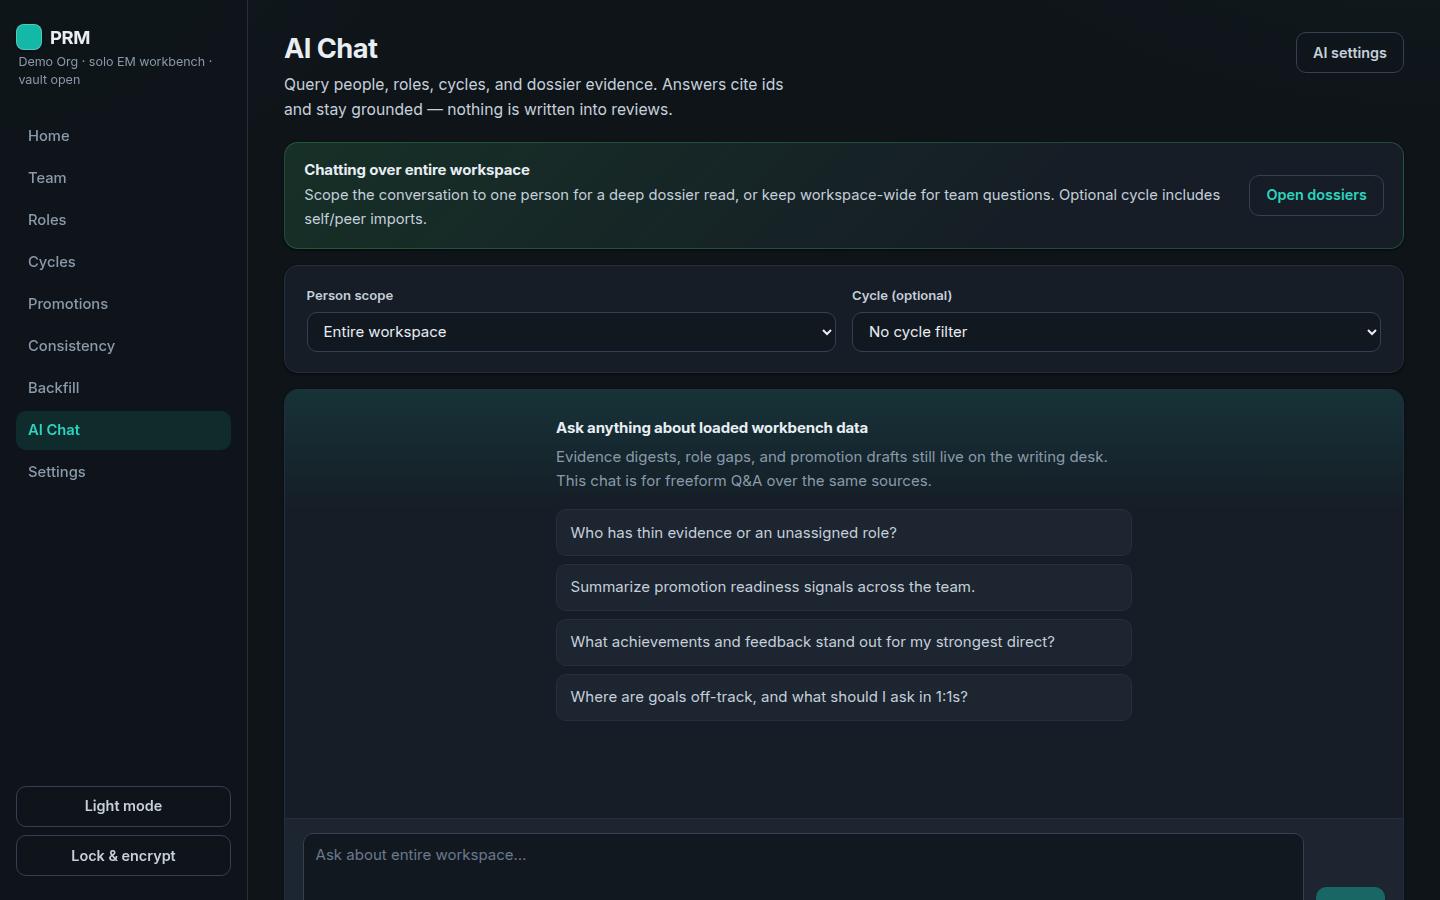
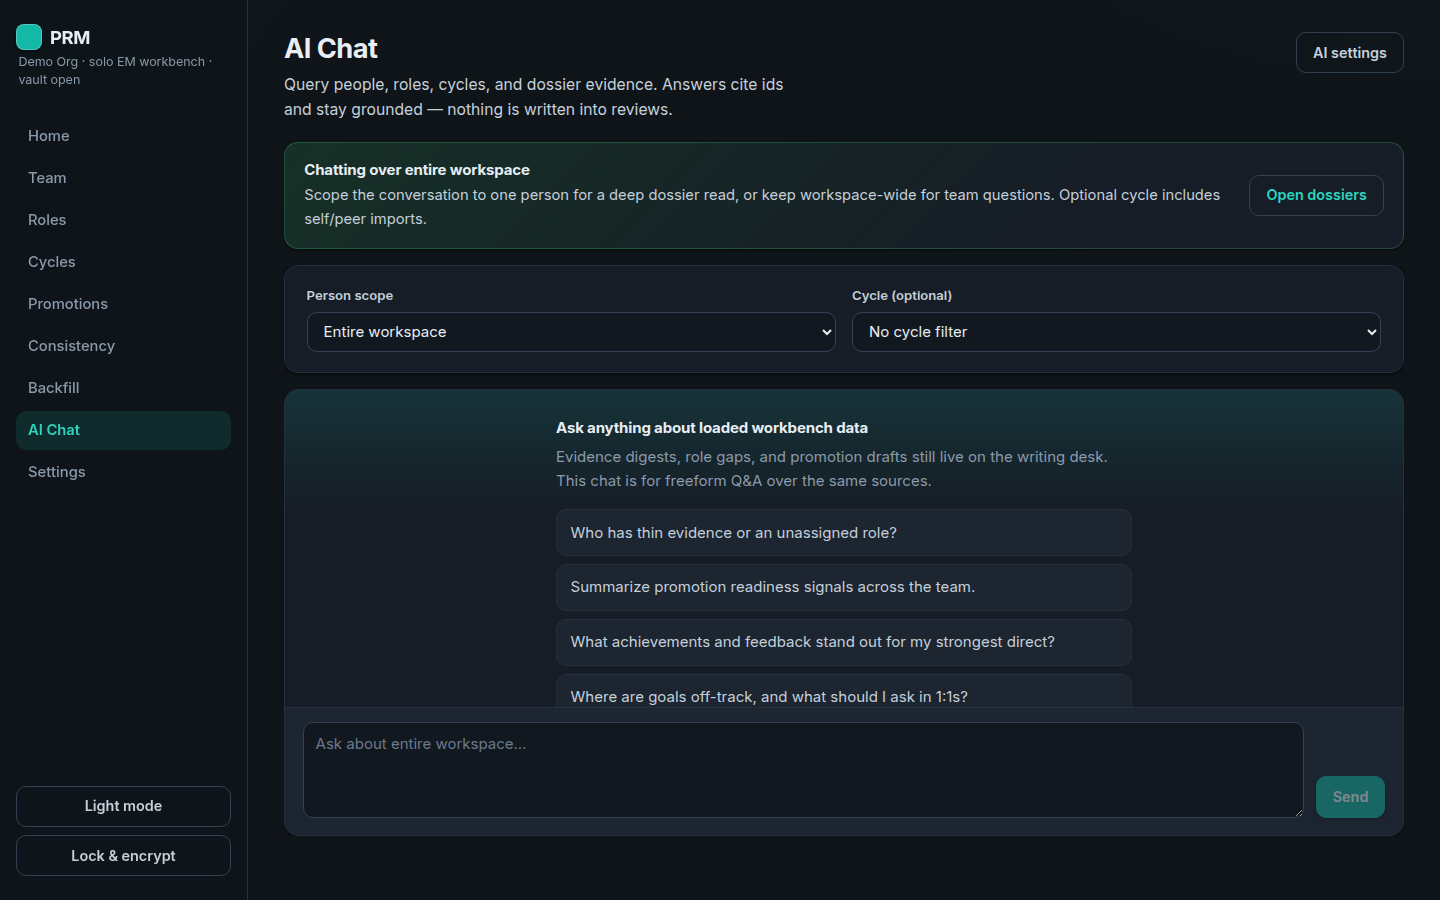
Fix AI Chat Send button clipped below the fold
Keep the chat page within the viewport so the composer stays visible,
and regenerate the README chat screenshot.

Changed region(s): [[0.2188, 0.84, 0.9688, 0.9644], [0.9062, 0.9644, 0.9688, 1.0], [0.2188, 0.8089, 0.3438, 0.84]]

diff --git a/apps/ui/src/styles.css b/apps/ui/src/styles.css
@@ -457,12 +457,22 @@ li { margin-bottom: 0.4rem; line-height: 1.55; color: var(--ink-soft); }
 .theme-float .btn { width: auto; margin: 0; min-width: 8.5rem; }
 
 /* ---------- AI chat ---------- */
-.chat-page { min-height: calc(100vh - 4rem); }
+.chat-page {
+  /* Keep composer in the first viewport — don’t push Send below the fold. */
+  height: calc(100vh - 6rem);
+  max-height: calc(100vh - 6rem);
+  min-height: 0;
+  overflow: hidden;
+}
+.chat-page > *:not(.chat-shell) {
+  flex-shrink: 0;
+}
 .chat-scope-row { gap: 1rem; align-items: end; flex-wrap: wrap; }
 .chat-shell {
   display: flex;
   flex-direction: column;
-  min-height: min(62vh, 720px);
+  flex: 1 1 auto;
+  min-height: 0;
   padding: 0;
   overflow: hidden;
 }
@@ -546,10 +556,11 @@ li { margin-bottom: 0.4rem; line-height: 1.55; color: var(--ink-soft); }
 .chat-composer {
   display: flex;
   gap: 0.75rem;
-  align-items: end;
+  align-items: flex-end;
   padding: 0.9rem 1.1rem 1.05rem;
   border-top: 1px solid var(--line);
   background: var(--panel-alt);
+  flex-shrink: 0;
 }
 .chat-composer .btn { flex-shrink: 0; min-height: 42px; }
 .chat-error {
@@ -729,6 +740,11 @@ pre { margin: 0; white-space: pre-wrap; word-break: break-word; }
   .sidebar-actions { margin-top: 1rem; }
   .main { padding: 1.5rem 1.25rem 3rem; }
   .grid-2, .writing { grid-template-columns: 1fr; }
+  .chat-page {
+    height: auto;
+    max-height: none;
+    overflow: visible;
+  }
   .chat-shell { min-height: 50vh; }
   .chat-composer { flex-direction: column; align-items: stretch; }
 }
